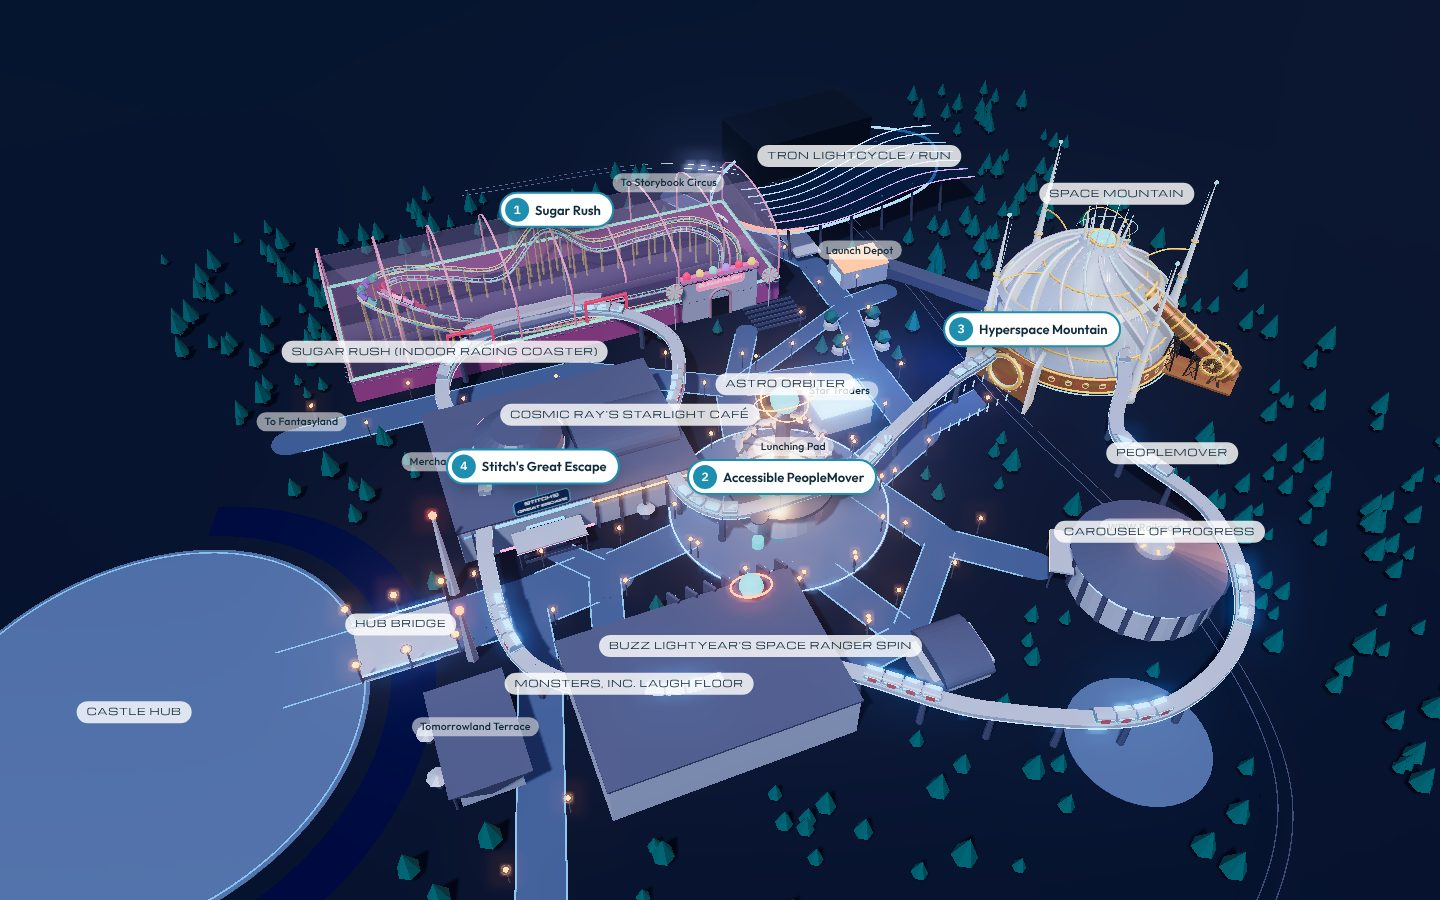
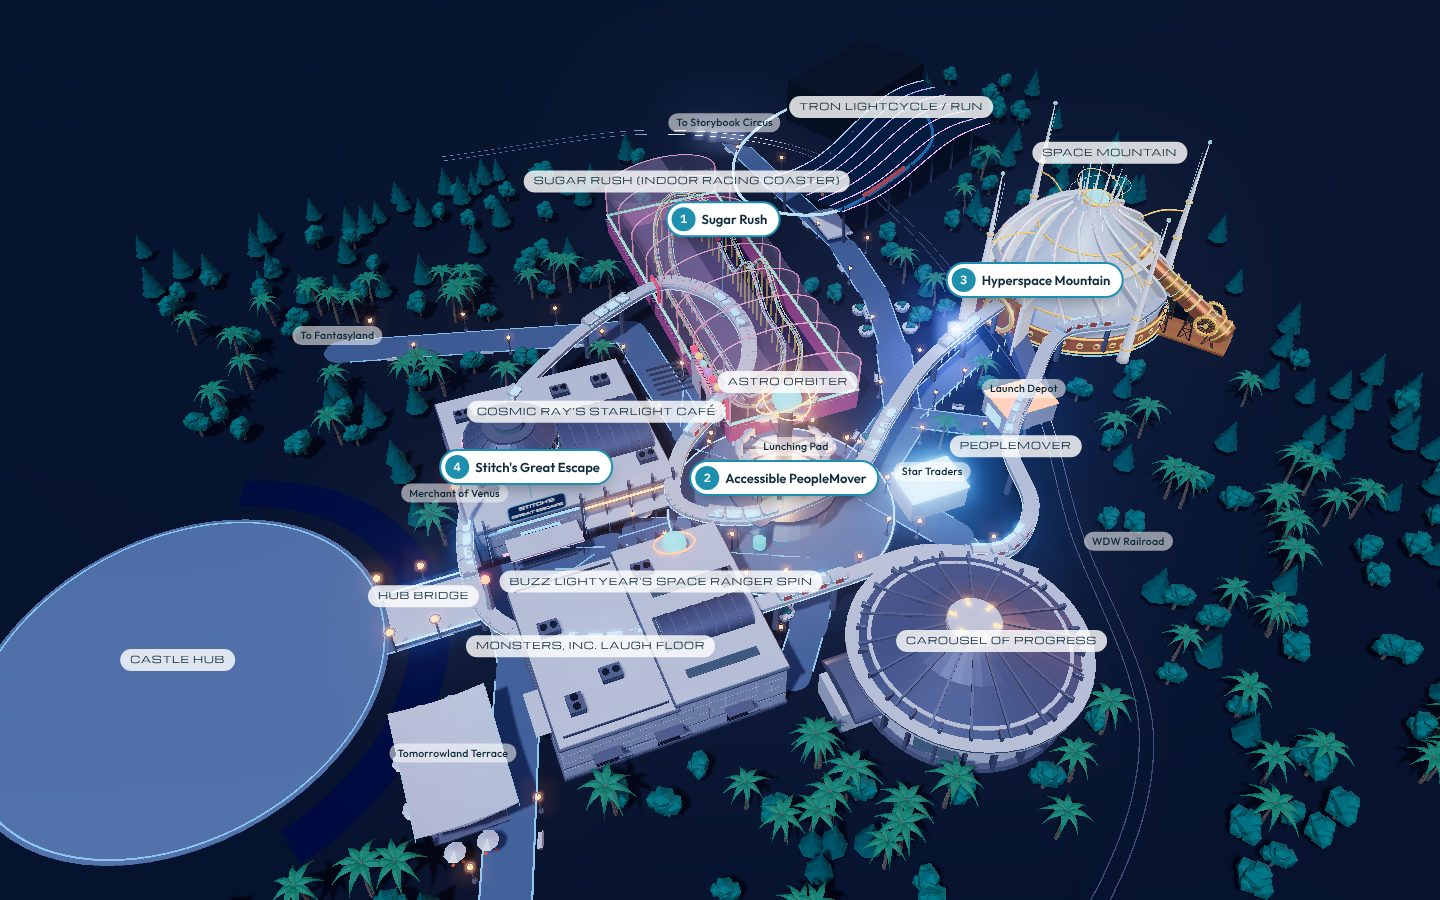
Show the detailed Blender version of Tomorrowland Reimagined

diff --git a/src/content.ts b/src/content.ts
@@ -92,8 +92,8 @@ export const CREATIVE = {
     title: 'Tomorrowland Reimagined',
     tagline: "A fan's redesign of Tomorrowland, built in 3D and explorable in your browser.",
     description:
-      "As a fan, I've always had ideas for where Tomorrowland could go next. So I built the land in 3D with four upgrades: Sugar Rush, an indoor dual racing coaster where the Speedway was, with the PeopleMover running through it; wheelchair-accessible PeopleMover vehicles; Hyperspace Mountain, a Space Mountain refurbishment with its own story; and the old Stitch's Great Escape building brought back to life.",
-    chips: ['3D in the browser', 'Built from scratch', 'Four upgrades'],
+      "As a fan, I've always had ideas for where Tomorrowland could go next. So I built the land in 3D, with detailed buildings I modeled in Blender and every attraction placed to match the real park map. It shows four upgrades: Sugar Rush, an indoor dual racing coaster where the Speedway was, with the PeopleMover running through it; wheelchair-accessible PeopleMover vehicles; Hyperspace Mountain, a Space Mountain refurbishment with its own story; and the old Stitch's Great Escape building brought back to life.",
+    chips: ['3D in the browser', 'Modeled in Blender', 'Four upgrades'],
     img: './img/tomorrowland.jpg',
     buttons: [
       { label: 'Explore in 3D', href: LINKS.tomorrowlandLive, primary: true },
